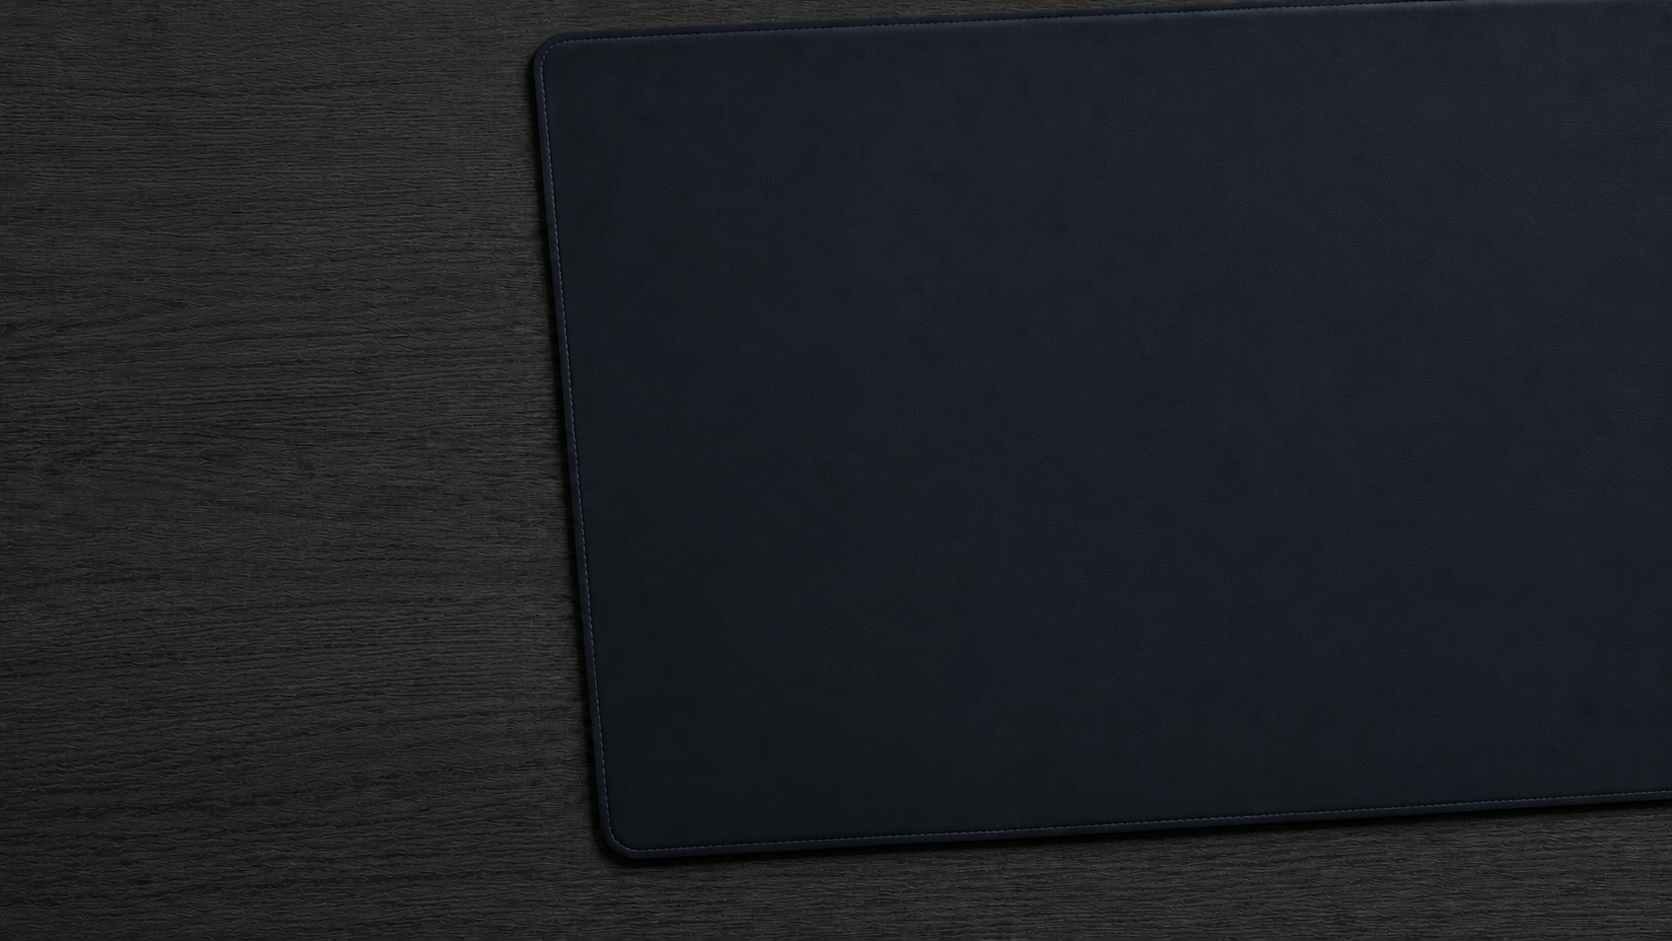
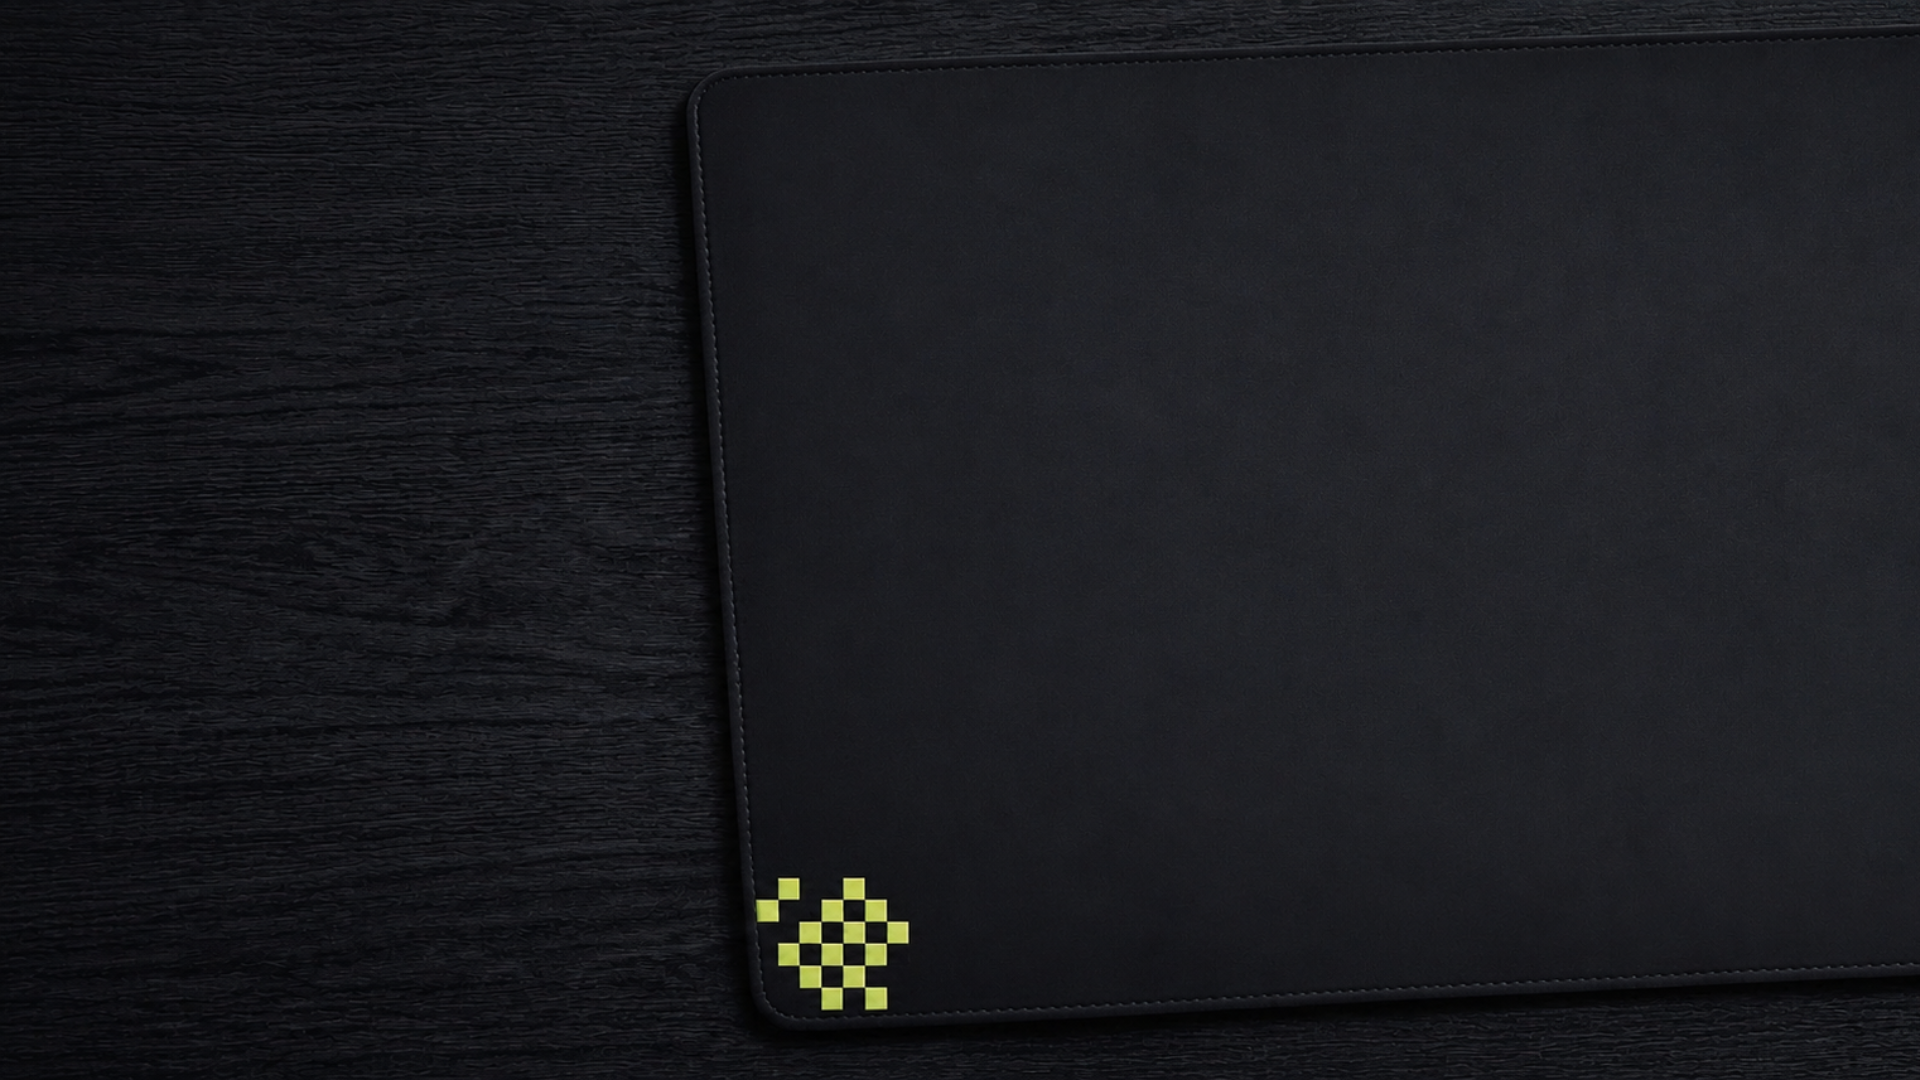
Refactor code structure for improved readability and maintainability

diff --git a/src/App.tsx b/src/App.tsx
@@ -21,7 +21,7 @@ const CARDS_CONFIG = [
     id: "c2",
     label: "NOVAe",
     image: "images/novae.png",
-    position: { top: "10%", left: "30%" },
+    position: { top: "12%", left: "30%" },
     rotation: 15,
     link: "#novae",
     size: { w: 520, h: 430 },
@@ -34,10 +34,10 @@ const CARDS_CONFIG = [
     id: "c3",
     label: "Newsletter",
     image: "images/newsletter.png",
-    position: { top: "25%", right: "-12%" },
-    rotation: 20,
+    position: { top: "60%", right: "55%" },
+    rotation: -20,
     link: "#newsletter",
-    size: { w: 730, h: 330 },
+    size: { w: 720, h: 320 },
     zIndex: 4,
     labelOffset: 90,
     labelPosition: "bottom",
@@ -46,10 +46,10 @@ const CARDS_CONFIG = [
     id: "c4",
     label: "Projects",
     image: "images/notebook.png",
-    position: { bottom: "40%", right: "73%" },
+    position: { bottom: "15%", right: "76%" },
     rotation: -15,
     link: "#projects",
-    size: { w: 330, h: 410 },
+    size: { w: 300, h: 380 },
     zIndex: 2,
     labelOffset: 40,
     labelPosition: "bottom",
@@ -58,37 +58,37 @@ const CARDS_CONFIG = [
     id: "c5",
     label: "Meet the Team",
     image: "images/photo.png",
-    position: { bottom: "-5%", left: "0%" },
-    rotation: -15,
+    position: { bottom: "40%", left: "75%" },
+    rotation: 15,
     link: "#team",
-    size: { w: 430, h: 340 },
+    size: { w: 380, h: 290 },
     zIndex: 3,
-    labelOffset: 25,
-    labelPosition: "top",
+    labelOffset: 18,
+    labelPosition: "bottom",
   },
   {
     id: "c6",
     label: "Knowledge Base",
     image: "images/folder2.png",
-    position: { bottom: "-30%", right: "0%" },
+    position: { bottom: "-25%", right: "0%" },
     rotation: 20,
     link: "#knowledge-base",
-    size: { w: 440, h: 440 },
+    size: { w: 410, h: 410 },
     zIndex: 2,
     labelPosition: "top",
     labelOffset: 40,
   },
-{
+  {
     id: "c7",
-    label: "Daily Games",
-    image: "images/videogame.png",
-    position: { bottom: "44%", right: "-5%" },
+    label: "Current Project",
+    image: "images/note.png",
+    position: { bottom: "42%", right: "20%" },
     rotation: 15,
-    link: "#daily-games",
-    size: { w: 350, h: 350 },
+    link: "#current-project",
+    size: { w: 200, h: 200 },
     zIndex: 2,
     labelPosition: "bottom",
-    labelOffset: 55,
+    labelOffset: 6,
   },
 ];
  
@@ -295,7 +295,7 @@ export function HeroSection() {
       <div style={{
   position: "absolute",
   inset: 0,
-  background: "url('images/background3.png')",
+  background: "url('images/background.png')",
   zIndex: 0,
   backgroundSize: "100% 100%",
   backgroundPosition: "center",
@@ -314,6 +314,55 @@ export function HeroSection() {
         pointerEvents: "none",
       }} />
  
+ {/* Slogan */}
+      <motion.img
+  src="images/slogan.png"
+  alt="BUILD SOMETHING"
+  initial={{ opacity: 0, y: -10 }}
+  animate={{ opacity: 1, y: 0 }}
+  transition={{
+    duration: 1,
+    delay: 1.1,
+    ease: [0.16, 1, 0.3, 1],
+  }}
+  style={{
+    position: "absolute",
+    top: -220,
+    left: -190,
+    zIndex: 15,
+    width: 1100, // adjust depending on your design
+    height: "auto",
+    pointerEvents: "none",
+    userSelect: "none",
+  }}
+
+
+/>
+
+{/* Logo */}
+      <motion.img
+  src="images/logo.png"
+  alt="NOVAe"
+  initial={{ opacity: 0, y: -10 }}
+  animate={{ opacity: 1, y: 0 }}
+  transition={{
+    duration: 1,
+    delay: 1.1,
+    ease: [0.16, 1, 0.3, 1],
+  }}
+  style={{
+    position: "absolute",
+    top: 35,
+    left: 450,
+    zIndex: 15,
+    width: 120, // adjust depending on your design
+    height: "auto",
+    pointerEvents: "none",
+    userSelect: "none",
+  }}
+
+
+/>
       {/* Center fine grid decoration */}
       <motion.div
         initial={{ opacity: 0 }}

diff --git a/src/LoadingOverlay.tsx b/src/LoadingOverlay.tsx
@@ -197,7 +197,7 @@ function ParticleCanvas({
         const breathe = 0.5 + 0.5 * Math.sin(elapsed * 0.0025);
 
         ctx.globalAlpha = 0.06 + breathe * 0.05;
-        const grad = ctx.createRadialGradient(cx, cy - 30, 10, cx, cy, DISPLAY_SIZE * 0.9);
+        const grad = ctx.createRadialGradient(cx, cy - 20, 10, cx, cy, DISPLAY_SIZE * 0.9);
         grad.addColorStop(0, "rgba(204,255,0,0.5)");
         grad.addColorStop(0.4, "rgba(204,255,0,0.15)");
         grad.addColorStop(1, "transparent");
@@ -299,7 +299,7 @@ export function LoadingOverlay({ onRevealComplete }: LoadingOverlayProps) {
       const cxPage = W / 2;
       const cyPage = H / 2;
       const originX = cxPage - DISPLAY_SIZE / 2;
-      const originY = cyPage - DISPLAY_SIZE / 2 - 30; // slight upward offset for better centering
+      const originY = cyPage - DISPLAY_SIZE / 2 - 20; // slight upward offset for better centering
 
       const corners = [
         { x: -120, y: -120 },